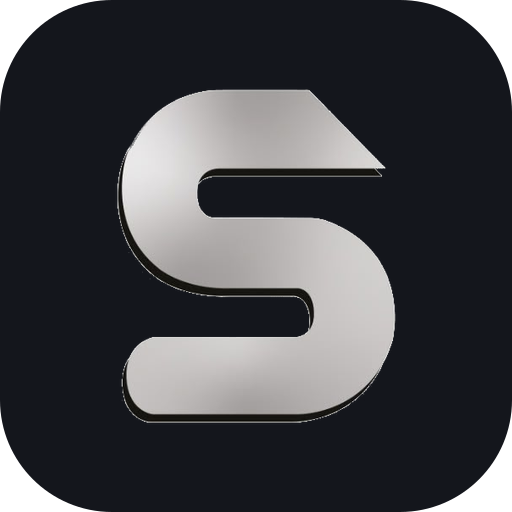
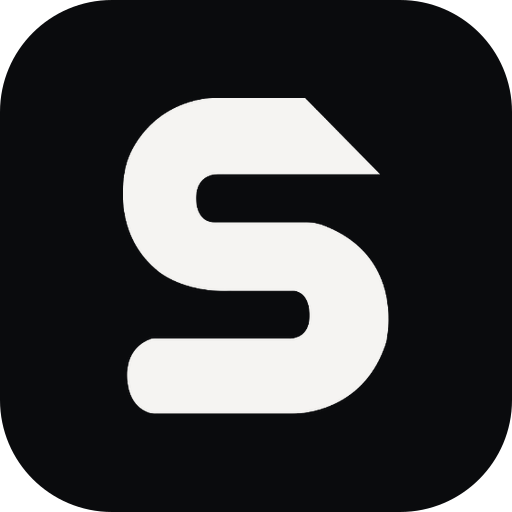
Switch to the client's new SEENERGY® wordmark
img/logo.jpeg (black wordmark on white) replaces the silver lockup with
the "Güvenlik Teknolojileri A.Ş" line. Lifted off its white ground with the
letter edges' anti-aliasing kept, into the same four public/brand files
(wordmark, compact, S mark, slide-size wordmark) so every reference —
including the first hero slide, which points at the hero file in the
Vitrin data locally and live — follows without a data change. New favicon
and Apple touch icon: a white S on a black plate.

The artwork is black, so the logo now takes a tone: theme-following on the
header and drawer (white under the dark theme), always white on the dark
condensed bar. Header sizes retuned for the wider, tagline-free mark.
Slide pictures get more left padding so they clear the copy/stage seam.

Changed region(s): [[0.2188, 0.1562, 0.7812, 0.8438]]

diff --git a/src/components/brand-mark.tsx b/src/components/brand-mark.tsx
@@ -2,38 +2,71 @@
 /**
  * The SEENERGY logo — the client's own artwork, in three cuts.
  *
- * Source: img/seenergy-logo-original.jpg, a 1600×800 silver lockup on white
- * supplied on 2026-09-29. It replaced the S mark this file used to draw by
- * hand. The cuts are lifted off the white ground into transparent WebP so the
- * same files sit on the white header and on the near-black sticky bar. The
- * letter counters are transparent too, so on dark chrome the bar shows through
- * the R and the o's instead of white patches.
+ * Source: img/logo.jpeg, a black "SEENERGY®" wordmark on white supplied on
+ * 2026-10-22. It replaced the silver lockup with the "Güvenlik Teknolojileri
+ * A.Ş" line (img/seenergy-logo-original.jpg, 2026-09-29). The cuts are lifted
+ * off the white ground — darkness read as coverage, so the letter edges keep
+ * their anti-aliasing — into transparent WebP in solid near-black.
  *
- *   public/brand/seenergy-logo.webp          full lockup with "Güvenlik
- *                                            Teknolojileri A.Ş", 3.80 : 1
- *   public/brand/seenergy-logo-compact.webp  S + EENERGY, tagline removed —
- *                                            below ~40px tall the tagline is
- *                                            noise, 3.93 : 1
+ *   public/brand/seenergy-logo.webp          the wordmark, 4.45 : 1
+ *   public/brand/seenergy-logo-compact.webp  the same wordmark, smaller file —
+ *                                            the new artwork has no tagline to
+ *                                            drop, so the two cuts now match
  *   public/brand/seenergy-mark.webp          the S alone, 0.84 : 1 — phone
- *                                            header; also src/app/icon.png
+ *                                            header; also src/app/icon.png and
+ *                                            apple-icon.png (white S on black)
+ *   public/brand/seenergy-logo-hero.webp     the wordmark at slide size
+ *
+ * The artwork is black, so its colour follows the surface it sits on:
+ *   tone="auto"   black on the light theme, white under the dark theme
+ *                 (`.logo-auto` in globals.css inverts it) — the header,
+ *                 the drawer
+ *   tone="light"  always white — surfaces that are dark in both themes,
+ *                 such as the condensed sticky bar
  *
  * The images are decorative (`alt=""`): every place that shows one wraps it in
- * a link that already carries the site name. When a vector original arrives,
- * replace the three files and the icons — nothing else changes.
+ * a link that already carries the site name.
  */
 
-type LogoProps = { className?: string };
+type LogoProps = { className?: string; tone?: 'auto' | 'light' };
 
-export function BrandMark({ className = '' }: LogoProps) {
-  return <img src="/brand/seenergy-mark.webp" width={240} height={286} alt="" decoding="async" className={className} />;
-}
+const toneClass = (tone: LogoProps['tone']) => (tone === 'light' ? 'invert' : 'logo-auto');
 
-export function BrandLogo({ className = '' }: LogoProps) {
-  return <img src="/brand/seenergy-logo.webp" width={960} height={253} alt="" decoding="async" className={className} />;
-}
-
-export function BrandLogoCompact({ className = '' }: LogoProps) {
+export function BrandMark({ className = '', tone = 'auto' }: LogoProps) {
   return (
-    <img src="/brand/seenergy-logo-compact.webp" width={720} height={183} alt="" decoding="async" className={className} />
+    <img
+      src="/brand/seenergy-mark.webp"
+      width={240}
+      height={286}
+      alt=""
+      decoding="async"
+      className={`${toneClass(tone)} ${className}`}
+    />
+  );
+}
+
+export function BrandLogo({ className = '', tone = 'auto' }: LogoProps) {
+  return (
+    <img
+      src="/brand/seenergy-logo.webp"
+      width={960}
+      height={216}
+      alt=""
+      decoding="async"
+      className={`${toneClass(tone)} ${className}`}
+    />
+  );
+}
+
+export function BrandLogoCompact({ className = '', tone = 'auto' }: LogoProps) {
+  return (
+    <img
+      src="/brand/seenergy-logo-compact.webp"
+      width={720}
+      height={162}
+      alt=""
+      decoding="async"
+      className={`${toneClass(tone)} ${className}`}
+    />
   );
 }

diff --git a/src/components/site-header.tsx b/src/components/site-header.tsx
@@ -49,8 +49,9 @@ export type MenuModels = Record<string, { label: string; detail: string; image: 
 const MENU_MODEL_LIMIT = 7;
 
 /**
- * The lockup: the client's own logo (see brand-mark.tsx) — the full cut with
- * its "Güvenlik Teknolojileri A.Ş" line from `sm` up, the S mark alone below.
+ * The lockup: the client's own logo (see brand-mark.tsx) — the SEENERGY®
+ * wordmark from `sm` up, the S mark alone below. Theme-following: black on
+ * the light header, white under the dark theme.
  */
 function Logo({ className = '' }: { className?: string }) {
   return (
@@ -84,7 +85,7 @@ function Logo({ className = '' }: { className?: string }) {
           Worth noting for future header checks: comparing the LINK boxes shows
           a tidy 12px gap and reports no collision. The overflow is only visible
           if you measure the text box. */}
-      <BrandLogo className="hidden h-[42px] w-auto shrink-0 sm:block dt:h-[56px]" />
+      <BrandLogo className="hidden h-[30px] w-auto shrink-0 sm:block dt:h-[40px]" />
     </Link>
   );
 }
@@ -354,8 +355,8 @@ export function SiteHeader({ promo, menuModels = {} }: { promo: string; menuMode
             tabIndex={condensed ? 0 : -1}
             className="flex shrink-0 items-center"
           >
-            <BrandMark className="h-7 w-auto sm:hidden" />
-            <BrandLogoCompact className="hidden h-[26px] w-auto sm:block dt:h-[32px]" />
+            <BrandMark tone="light" className="h-7 w-auto sm:hidden" />
+            <BrandLogoCompact tone="light" className="hidden h-[22px] w-auto sm:block dt:h-[26px]" />
           </Link>
 
           <div className="min-w-0 flex-1">

diff --git a/src/components/hero.tsx b/src/components/hero.tsx
@@ -140,7 +140,7 @@ export function Hero({ slides }: { slides: HeroSlide[] }) {
                     className={
                       cover
                         ? `object-cover ${active ? 'animate-[hero-zoom_7000ms_ease-out_both]' : ''}`
-                        : `object-contain p-6 mix-blend-multiply sm:p-10 dt:px-16 dt:py-12 ${active ? 'animate-[hero-settle_900ms_var(--ease-out)_both]' : ''}`
+                        : `object-contain p-6 mix-blend-multiply sm:py-10 sm:pl-24 sm:pr-8 dt:py-12 dt:pl-40 dt:pr-14 ${active ? 'animate-[hero-settle_900ms_var(--ease-out)_both]' : ''}`
                     }
                   />
                   {/* The seam: the dark panel fades into the stage instead of

diff --git a/src/app/globals.css b/src/app/globals.css
@@ -987,3 +987,14 @@ html {
     transform: translateY(0);
   }
 }
+
+/* The logo artwork is black (src/components/brand-mark.tsx): under the dark
+   theme a theme-following logo turns white. */
+@media (prefers-color-scheme: dark) {
+  :root:not([data-theme='light']) .logo-auto {
+    filter: invert(1);
+  }
+}
+:root[data-theme='dark'] .logo-auto {
+  filter: invert(1);
+}

diff --git a/CLAUDE.md b/CLAUDE.md
@@ -11,9 +11,11 @@ Guidance for Claude Code working in this repository.
   The storefront was originally named VOLTA; the client supplied a real logo and
   the build was rebranded to SEENERGY (teal → indigo → purple gradient over
   near-black chrome). `BRAND_BIBLE_ELECTRONICS.md` §2 carries the supersession
-  note and the new tokens. The logo itself is now the client's final silver
-  lockup ("Güvenlik Teknolojileri A.Ş"), served from `public/brand/` through
-  `src/components/brand-mark.tsx`, and the palette follows it: a steel ramp
+  note and the new tokens. The logo is the client's black "SEENERGY®"
+  wordmark (img/logo.jpeg, 2026-10-22; it replaced a silver lockup with a
+  "Güvenlik Teknolojileri A.Ş" line), served from `public/brand/` through
+  `src/components/brand-mark.tsx` — black on light surfaces, white on dark
+  ones (`tone`). The palette came from the earlier silver logo: a steel ramp
   (silver → graphite → black) with graphite actions. The `grad-*` token names
   are the old gradient's, kept so every cap and rail followed without an edit. The reference-measurement documents still describe
   merterelektronik.com's amber accurately and are deliberately not rewritten.
